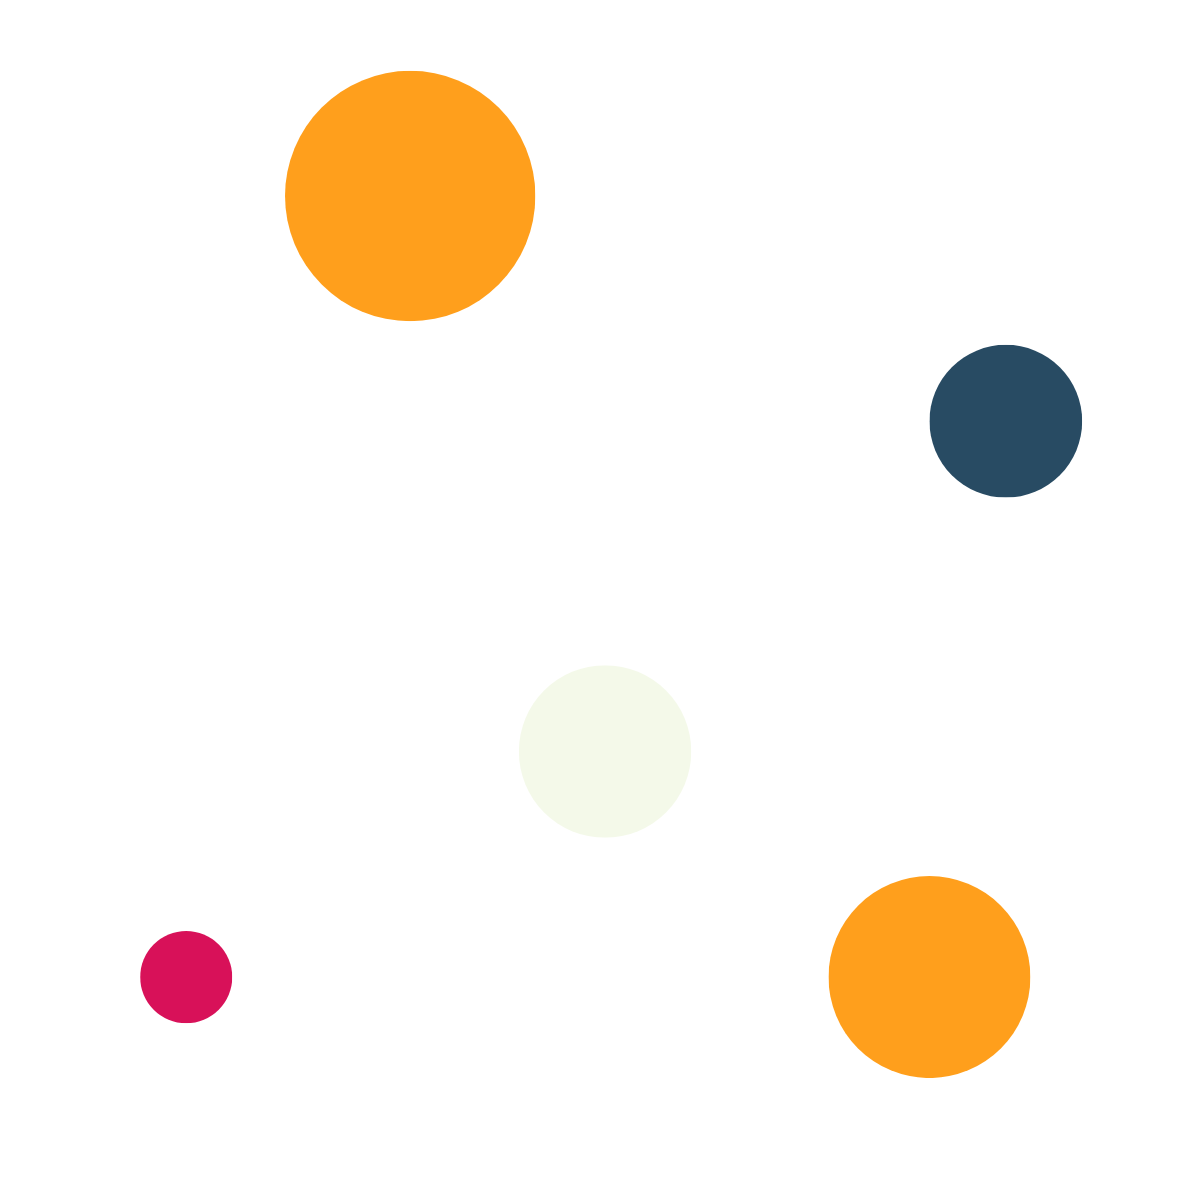
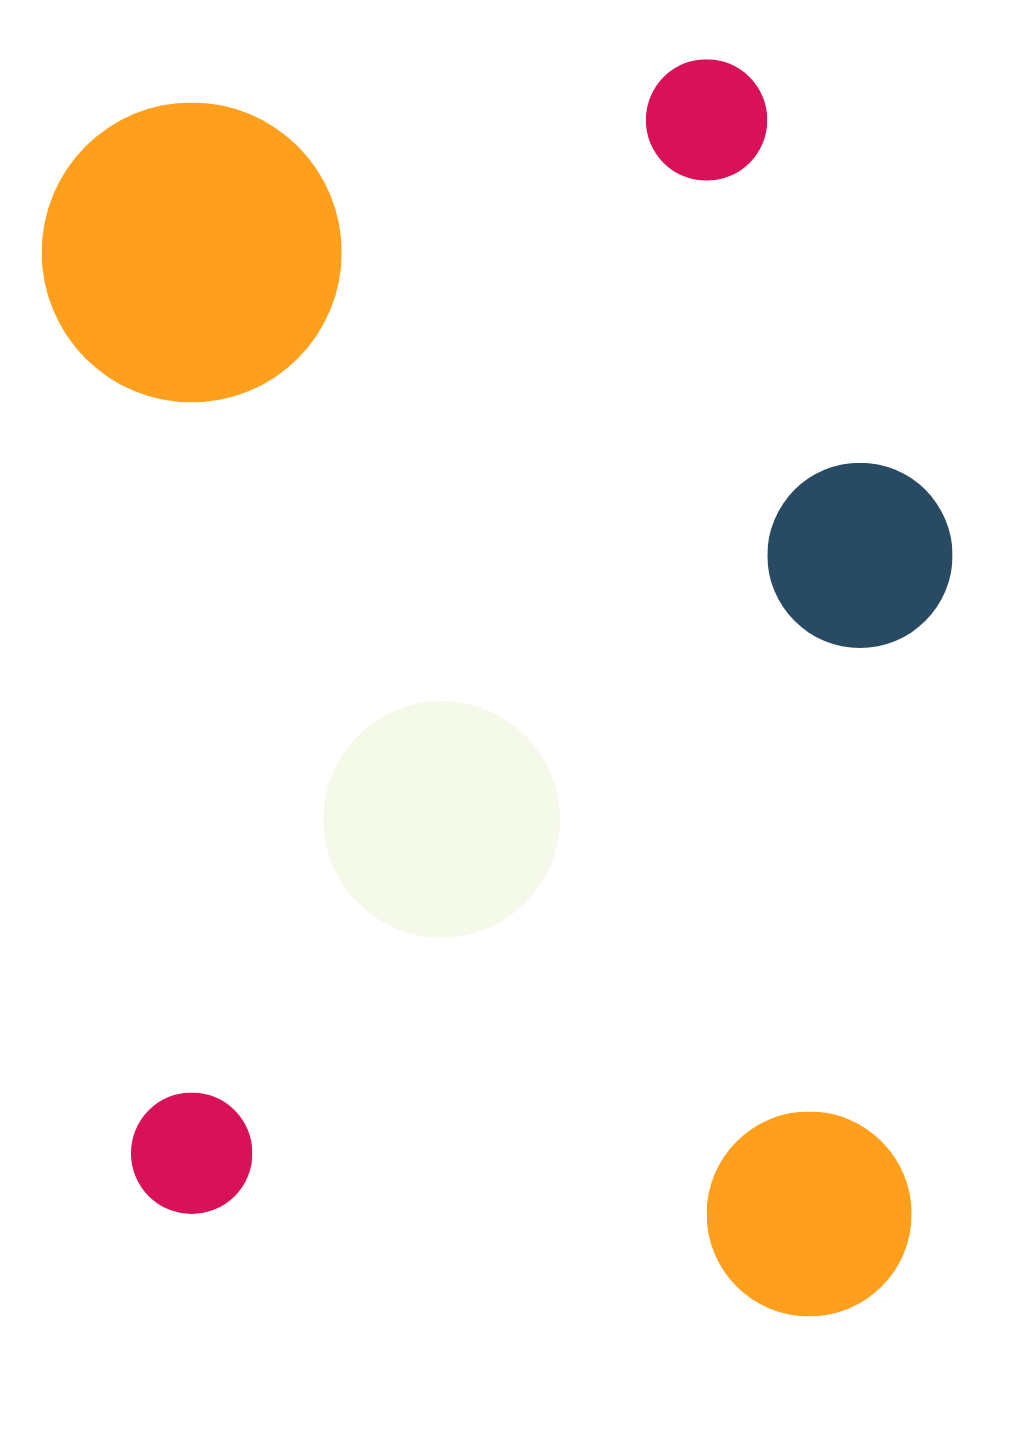
Add files via upload

diff --git a/style.css b/style.css
@@ -46,7 +46,6 @@ section article {
 
 .section-about {
   display: grid;
-
   grid-template-areas:
     "experience fly_dots"
     "links fly_dots";
@@ -55,7 +54,7 @@ section article {
 
 .experience {
   grid-area: experience;
-  padding-left: 2rem;
+
   justify-self: start;
 }
 
@@ -65,7 +64,6 @@ section article {
 
 .links {
   grid-area: links;
-  padding-left: 2rem;
   justify-self: start;
 }
 
@@ -75,7 +73,6 @@ section article {
 #fly_dots {
   grid-area: fly_dots;
   justify-self: end;
-  padding-right: 10%;
 }
 
 #foto {
@@ -90,6 +87,8 @@ section article {
   align-items: center;
   justify-content: space-around;
   flex-direction: column;
+  margin-top: 100%;
+  margin-bottom: 15%;
 }
 
 .ball1 {
@@ -97,8 +96,28 @@ section article {
   height: 80px;
   background-color: #284b63;
   border-radius: 50%;
-  animation: bounce 0.5 infinite;
+
   position: relative;
+}
+
+.ball2 {
+  width: 80px;
+  height: 80px;
+  background-color: #284b63;
+  border-radius: 50%;
+
+  position: relative;
+  opacity: 60%;
+}
+
+.ball3 {
+  width: 80px;
+  height: 80px;
+  background-color: #284b63;
+  border-radius: 50%;
+
+  position: relative;
+  opacity: 30%;
 }
 
 .dot {
@@ -108,35 +127,15 @@ section article {
   border-radius: 50%;
 }
 
-@keyframes bounce {
-  0% {
-    top: 0px;
-    opacity: 10%;
-  }
-  50% {
-    top: 50px;
-    opacity: 50%;
-  }
-
-  100% {
-    top: 150px;
-    opacity: 100%;
-  }
-}
-
 .o-mne {
   grid-area: textik;
   padding-right: 10%;
   justify-self: start;
+  padding-bottom: 10%;
 }
 
 .o-mne > * {
   text-align: left;
-}
-
-.section-about {
-  background-color: #153243;
-  color: whitesmoke;
 }
 
 @keyframes show {
@@ -164,8 +163,17 @@ h1 {
   font-weight: 700;
   font-style: normal;
   color: whitesmoke;
+  margin-right: 150px;
 }
-
+h1:after {
+  content: "\A";
+  width: 10px;
+  height: 10px;
+  border-radius: 50%;
+  background: #d81159;
+  display: inline-block;
+  margin-left: 10px;
+}
 .section-intro p {
   text-align: left;
   font-family: "Roboto", sans-serif;
@@ -191,11 +199,19 @@ p {
   font-style: normal;
 }
 
+.experience h2 {
+  text-align: left;
+  font-family: "Roboto", sans-serif;
+  font-size: 32px;
+  font-weight: 400;
+  font-style: normal;
+}
+
 .experience p {
   text-align: left;
   font-family: "Roboto", sans-serif;
-  font-size: 24px;
-  font-weight: 400;
+  font-size: 32px;
+  font-weight: 300;
   font-style: normal;
 }
 
@@ -205,6 +221,7 @@ p {
   font-size: 24px;
   font-weight: 100;
   font-style: normal;
+  vertical-align: bottom;
 }
 
 .game_posters {
@@ -229,11 +246,22 @@ p {
   animation-timeline: view(2vh 20vh);
   width: 100%;
   opacity: 0;
+  padding-bottom: 5%;
 }
 
 .prototypes {
   background-color: #f4f9e9;
   animation: fade-in-long linear;
+  animation-timeline: view(2vh 20vh);
+  width: 100%;
+  opacity: 0;
+  padding-bottom: 5%;
+}
+
+.section-about {
+  background-color: #153243;
+  color: whitesmoke;
+  animation: fade-in linear;
   animation-timeline: view(2vh 20vh);
   width: 100%;
   opacity: 0;
@@ -289,19 +317,38 @@ p {
   color: whitesmoke;
   min-height: 100vh;
   display: grid;
-  grid-template-areas: "fly_dots_2 email";
-  grid-template-columns: 70% 30%;
+  grid-template-areas:
+    "fly_dots_2 fly_dots_3"
+    "fly_dots_2 email";
+  grid-template-columns: 80% 20%;
 }
 
-.end {
-  grid-area: email;
-  padding-right: 10%;
-
-  justify-items: flex-end;
+.fly_dots_2 {
+  grid-area: fly_dots_2;
+  display: flex;
+  align-items: center;
+  justify-content: space-around;
+  flex-direction: column;
+}
+.email p {
+  font-size: 30px;
+  font-weight: 300;
+  font-style: normal;
+  text-align: end;
 }
 
 .email > * {
   text-align: right;
+  margin-top: 200%;
+}
+
+#email {
+  grid-area: email;
+  justify-self: end;
+}
+
+.end {
+  padding-right: 5%;
 }
 
 .end img {
@@ -311,15 +358,13 @@ p {
 }
 
 .section-intro img {
-  border-radius: 50%;
-  max-width: 40%;
-  max-height: 100%;
+  max-width: 65%;
+  max-height: 65%;
   padding-top: 10%;
 }
 
 .moodboard_pictures {
   display: flex;
-
   justify-content: space-evenly;
 }
 

diff --git a/index.html b/index.html
@@ -9,7 +9,7 @@
     />
     <meta charset="UTF-8" />
     <meta name="viewport" content="width=device-width, initial-scale=1.0" />
-    <title>Document</title>
+    <title>Anna-Holyszewska</title>
     <link rel="stylesheet" href="style.css" />
     <script src="script.js" defer></script>
   </head>
@@ -18,22 +18,22 @@
       <section class="section-intro">
         <div class="preloader">
           <div class="ball1"></div>
+          <div class="ball2"></div>
+          <div class="ball3"></div>
         </div>
 
         <img src="anna.png" id="foto" alt="anna_holyszewska" />
         <div class="o-mne">
           <h1>Anna Holyszewská</h1>
-          <div class="dot"></div>
+
           <p>Project Manager and UX/UI designer</p>
           <p>anna@holyszewski.cz</p>
         </div>
       </section>
       <section class="section-about">
-        <header>
-          <h2>About</h2>
-        </header>
         <article class="animate-show">
           <div class="section-about-description">
+            <h2>About</h2>
             <div class="experience">
               <p>
                 Hi Everyone, I am Anna, your new Project Manager focusing on
@@ -41,6 +41,7 @@
               </p>
               <p>The Chamber of Project Managers Czech Republic member.</p>
             </div>
+            <br /><br /><br /><br /><br /><br /><br />
             <div class="links">
               <p>
                 Click here to see my
@@ -53,7 +54,11 @@
                 >
               </p>
             </div>
-            <div class="fly_dots"><img src="fly_dots.png" alt="dots" /></div>
+          </div>
+        </article>
+        <article>
+          <div class="fly_dots">
+            <img src="fly_dots.png" alt="dots" style="max-width: 100%" />
           </div>
         </article>
       </section>
@@ -215,10 +220,11 @@
         <div class="fly_dots_2">
           <img src="fly_dots_2.png" alt="fly_dots_2" />
         </div>
-        <div class="email">
-          <article>
-            <p>anna@holyszewski.cz</p>
-          </article>
+        <div class="fly_dots_3">
+          <img src="fly_dots_3.png" alt="fly_dots_3" />
+        </div>
+        <div class="email" alt="email">
+          <p>anna@holyszewski.cz</p>
         </div>
       </section>
     </div>
